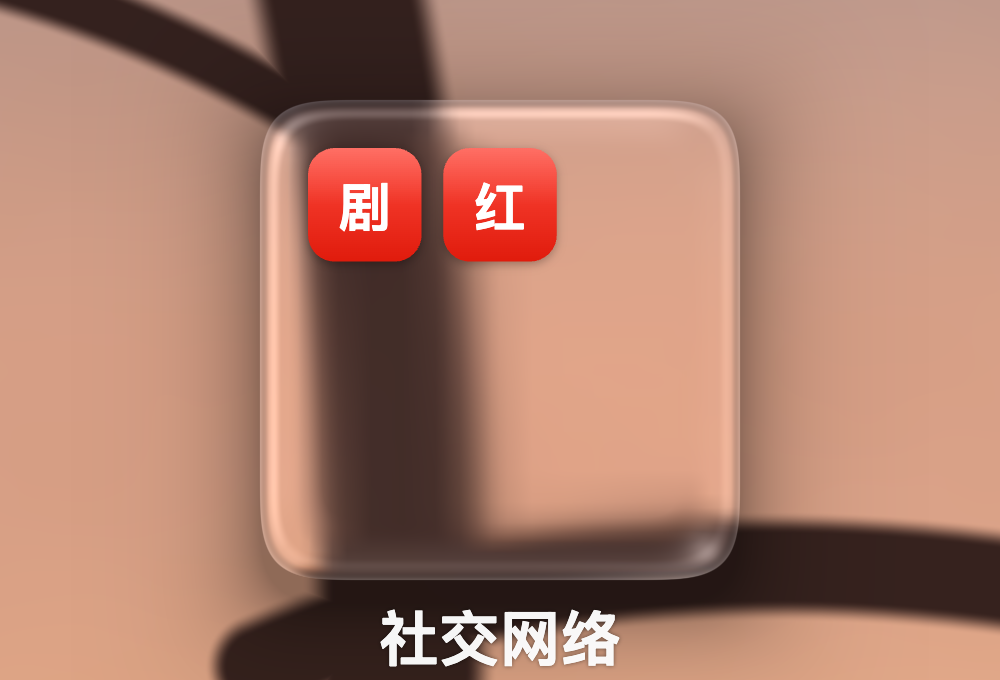
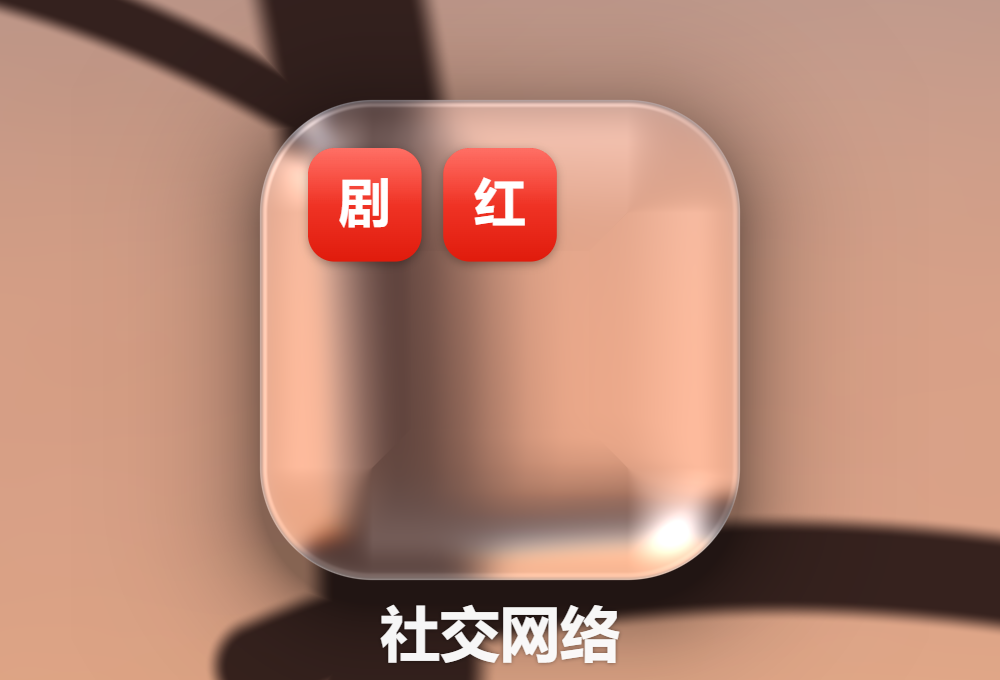
Fix backdrop-dependent brightness and the washed-out variable blur
Two elements with identical parameters rendered as different materials: the
"adaptive" white veil was driven by the average backdrop luminance behind each
element, so a folder sitting over a dark branch turned pale while its neighbour
over a bright background stayed clear. brightness was gated by the same factor,
so the slider did nothing at all over bright backdrops. Tint and brightness are
properties of the glass, not of what is behind it, so both are now constant
across every element (adaptive/uAvgLod removed, tintAmount carries the milky
layer that keeps dark wallpapers legible).

The blur parameters were raw mip levels sampled with a single textureLod tap.
On the top levels one texel is tens of pixels wide, so each tap averaged in a
large slab of the screen (colour collapsing toward the frame mean) and
reconstructed as a few big bilinear diamonds; with only 7 levels the rim slider
also saturated well below its maximum. They are now blur radii in CSS px: pick
the level whose own radius is about a third of the target, then spread 12
golden-angle taps over the remainder, which lands neighbouring taps one texel
apart and yields a real wide Gaussian that keeps its local colour.

Supporting changes: saturation now boosts the transmitted backdrop only (as
UIVisualEffectView does) to offset the desaturation any wide blur causes;
Fresnel uses the physical Schlick term, whose (1-cos)^5 falloff keeps the mirror
[…]

Changed region(s): [[0.248, 0.1235, 0.744, 0.8647], [0.372, 0.8956, 0.62, 0.9882]]

diff --git a/src/shaders.js b/src/shaders.js
@@ -182,11 +182,11 @@ void main() {
 // 4. refraction     : Snell (refract()) through that surface, screen-space
 //                     displacement = R.xy / -R.z * optical path length
 // 5. dispersion     : R/G/B refracted with slightly different IOR
-// 6. scattering     : variable blur via textureLod on the blurred mip chain,
-//                     strong on the plateau, weak on the rim
-// 7. reflection     : Fresnel-weighted environment + 2 specular lobes on the
+// 6. scattering     : variable-radius blur (multi-tap disc on the blurred mip
+//                     chain), strong on the plateau, weak on the rim
+// 7. reflection     : Schlick-Fresnel environment + 2 specular lobes on the
 //                     bevel -> the bright glass rim
-// 8. shading        : adaptive tint / saturation + soft contact shadow
+// 8. shading        : saturation boost / tint / soft contact shadow
 // ---------------------------------------------------------------------------
 export const FS_GLASS = `#version 300 es
 precision highp float;
@@ -203,15 +203,15 @@ uniform float uBevel;        // width of the refracting rim, px
 uniform float uHeight;       // glass height / optical thickness, px
 uniform float uIOR;
 uniform float uDispersion;
-uniform float uBlurPlateau;  // mip lod in the middle
-uniform float uBlurRim;      // mip lod at the rim
+uniform float uBlurPlateau;  // blur radius in the middle, px
+uniform float uBlurRim;      // blur radius at the rim, px
+uniform float uMips;         // number of levels in the blurred chain
 uniform float uSpecular;
 uniform float uSpecPower;
 uniform float uFresnel;
 uniform float uSat;
 uniform float uBright;
 uniform float uTintAmount;
-uniform float uAdaptive;
 uniform vec3  uTintColor;
 uniform float uShadow;
 uniform float uShadowSize;
@@ -223,7 +223,6 @@ uniform float uEdgeDark;
 uniform float uRefractScale;
 uniform float uMeniscus;     // 1 = concave meniscus rim, 0 = convex lens rim
 uniform int   uDebug;        // 0 final, 1 thickness, 2 normals, 3 displacement
-uniform float uAvgLod;       // mip level whose texel covers the whole element
 
 float sdSquircle(vec2 p, vec2 b, float r, float n) {
   vec2 q = abs(p) - b + r;
@@ -235,6 +234,37 @@ float sdSquircle(vec2 p, vec2 b, float r, float n) {
 vec3 sampleBg(vec2 px, float lod) {
   vec2 uv = clamp(px / uRes, vec2(0.001), vec2(0.999));
   return textureLod(uSrc, uv, lod).rgb;
+}
+
+// Variable-radius blur, radius in device px.
+//
+// A single textureLod() tap on the mip chain is not enough. The chain only
+// offers radii in powers of two, and on the top levels one texel is tens of
+// pixels wide, so a lone bilinear tap (a) averages in a huge slab of the
+// screen, which drags the colour toward the frame mean -> washed out, and
+// (b) reconstructs as a handful of big diamonds -> the "too few samples" mush.
+// Instead take the level whose own radius is about a third of what we want and
+// spread TAPS samples over the remainder on a golden-angle spiral. Neighbouring
+// taps then land roughly one texel apart at that level, which is exactly the
+// spacing at which the level's own filtering makes the disc continuous, so the
+// result is a real wide Gaussian that keeps its local colour.
+const int TAPS = 12;
+const float GOLDEN_ANGLE = 2.39996323;
+
+vec3 blurBg(vec2 px, float radius) {
+  if (radius < 1.0) return sampleBg(px, 0.0);
+  float lod = clamp(log2(radius) - 1.585, 0.0, uMips - 1.0);   // 2^lod ~ r/3
+  vec3 acc = vec3(0.0);
+  float wsum = 0.0;
+  for (int i = 0; i < TAPS; i++) {
+    float fi = float(i) + 0.5;
+    float r  = sqrt(fi / float(TAPS));       // equal-area spacing over the disc
+    float a  = fi * GOLDEN_ANGLE;
+    float w  = exp(-1.8 * r * r);
+    acc  += sampleBg(px + vec2(cos(a), sin(a)) * r * radius, lod) * w;
+    wsum += w;
+  }
+  return acc / wsum;
 }
 
 void main() {
@@ -279,15 +309,25 @@ void main() {
   }
 
   // ---- scattering: rim stays readable, plateau is frosted ----------------
-  float lod = mix(uBlurRim, uBlurPlateau, smoothstep(0.0, 0.85, t));
+  float radius = mix(uBlurRim, uBlurPlateau, smoothstep(0.0, 0.85, t));
 
   vec3 col;
-  col.r = sampleBg(px + dR, lod).r;
-  col.g = sampleBg(px + dG, lod).g;
-  col.b = sampleBg(px + dB, lod).b;
+  col.r = blurBg(px + dR, radius).r;
+  col.g = blurBg(px + dG, radius).g;
+  col.b = blurBg(px + dB, radius).b;
+
+  // Saturation is boosted on the TRANSMITTED backdrop only (this is what
+  // UIVisualEffectView's saturationDeltaFactor does). Any wide blur averages
+  // colours toward grey; without this the frosted panel reads pale even though
+  // the wallpaper behind it is saturated. Doing it before the reflections keeps
+  // the specular/Fresnel highlights neutral.
+  col = mix(vec3(dot(col, vec3(0.2126, 0.7152, 0.0722))), col, uSat);
 
   // ---- reflection: environment + two specular lobes on the bevel ---------
-  float fres = pow(1.0 - n.z, 3.0);
+  // Schlick: F0 for glass is ~4%, and the (1-cos)^5 falloff keeps the mirror
+  // term confined to the steepest part of the bevel. A softer exponent smears
+  // a grey wash across the whole rim and bleaches the refracted image there.
+  float fres = 0.04 + 0.96 * pow(1.0 - n.z, 5.0);
   vec2 nn = normalize(n.xy + 1e-6);
   vec3 env = mix(vec3(0.52, 0.57, 0.66), vec3(1.0), 0.30 + 0.70 * clamp(0.5 + 0.5 * nn.y, 0.0, 1.0));
   col = mix(col, env, clamp(fres * uFresnel, 0.0, 1.0));
@@ -310,19 +350,15 @@ void main() {
   float lit = 0.30 + 0.70 * max(dot(g, normalize(uLightDir)), 0.0);
   col += uEdgeLine * line * lit;
 
-  // ---- adaptive tint -----------------------------------------------------
-  float lum = dot(col, vec3(0.2126, 0.7152, 0.0722));
-  col = mix(vec3(lum), col, uSat);
+  // ---- tint --------------------------------------------------------------
+  // Tint and brightness are properties of the GLASS, so they must not depend on
+  // what happens to be behind the element. An earlier version drove a white
+  // veil (and gated brightness) off the average backdrop luminance, which made
+  // one folder go pale as soon as something dark passed behind it while an
+  // identically configured neighbour stayed clear -- same parameters, two
+  // different materials. Every element now gets exactly the same treatment.
   col = mix(col, uTintColor, uTintAmount);
-  // Adaptive: the veil follows the AVERAGE luminance of the backdrop behind the
-  // whole element (one low-res tap), not the per-pixel luminance. That is what
-  // keeps dark details dark while still lightening the panel over dark
-  // wallpapers -- per-pixel adaptation would grey out the content.
-  float bgLum = dot(textureLod(uSrc, uCenter / uRes, uAvgLod).rgb,
-                    vec3(0.2126, 0.7152, 0.0722));
-  float dark = smoothstep(0.45, 0.05, bgLum);
-  col = mix(col, vec3(1.0), uAdaptive * dark);
-  col += uBright * dark;
+  col += uBright;
 
   // ---- soft contact shadow ----------------------------------------------
   float ds = sdSquircle(p + vec2(0.0, uShadowOffset), uHalf, uRadius, uSquircle);

diff --git a/src/material.js b/src/material.js
@@ -9,15 +9,14 @@ export const DEFAULT_MATERIAL = {
   refractScale: 3.0,   // artistic gain on the displacement
   meniscus: 1.0,       // 1 = concave (liquid) rim -> surroundings squeeze into
                        // the rim (Apple);  0 = convex lens rim (magnifier)
-  blurPlateau: 2.25,   // mip lod in the middle (frosted)
-  blurRim: 5.4,        // mip lod on the rim
+  blurPlateau: 20,     // blur radius in the middle, CSS px (frosted)
+  blurRim: 7,          // blur radius on the rim, CSS px (stays readable)
   specular: 0.89,
   specPower: 11.5,
-  fresnel: 0.35,
-  saturation: 1.0,
+  fresnel: 0.9,        // multiplier on the Schlick term (1 = physical)
+  saturation: 1.35,    // boost on the transmitted backdrop, like iOS materials
   brightness: 0.0,
-  tintAmount: 0.0,
-  adaptive: 0.28,      // white veil added over dark backdrops (legibility)
+  tintAmount: 0.08,    // constant milky layer -- same for every element
   tintColor: [1.0, 1.0, 1.0],
   shadow: 0.38,
   shadowSize: 9,
@@ -35,14 +34,14 @@ export const PRESETS = {
   regular: {},
   // "Clear" variant: almost no frost, refraction and specular do all the work
   clear: {
-    blurPlateau: 1.1, blurRim: 0.4, height: 20, bevel: 15, refractScale: 1.5,
-    specular: 0.36, fresnel: 0.40, tintAmount: 0.02, brightness: 0.02,
+    blurPlateau: 3, blurRim: 1, height: 20, bevel: 15, refractScale: 1.5,
+    specular: 0.36, fresnel: 1.0, tintAmount: 0.02, brightness: 0.02,
     saturation: 1.18,
   },
   // exaggerated, for teaching the physics
   lens: {
     bevel: 26, height: 34, ior: 1.62, dispersion: 0.09, refractScale: 1.8,
-    blurPlateau: 0.6, blurRim: 0.0, specular: 0.42, fresnel: 0.5,
+    blurPlateau: 2, blurRim: 0, specular: 0.42, fresnel: 1.2,
   },
 };
 
@@ -59,15 +58,14 @@ export const SLIDERS = [
   ['dispersion', 0, 0.15, 0.005],
   ['refractScale', 0, 3, 0.05],
   ['meniscus', 0, 1, 0.05],
-  ['blurPlateau', 0, 6, 0.05],
-  ['blurRim', 0, 6, 0.05],
+  ['blurPlateau', 0, 48, 0.5],
+  ['blurRim', 0, 48, 0.5],
   ['specular', 0, 1, 0.01],
   ['specPower', 1, 40, 0.5],
-  ['fresnel', 0, 1, 0.01],
+  ['fresnel', 0, 2, 0.01],
   ['saturation', 0, 2, 0.02],
   ['brightness', -0.2, 0.3, 0.01],
   ['tintAmount', 0, 0.4, 0.01],
-  ['adaptive', 0, 0.5, 0.01],
   ['shadow', 0, 1, 0.01],
   ['shadowSize', 1, 30, 0.5],
   ['shadowOffset', 0, 20, 0.5],

diff --git a/src/renderer.js b/src/renderer.js
@@ -168,15 +168,15 @@ export class GlassRenderer {
     gl.uniform1f(loc.uHeight, m.height * dpr);
     gl.uniform1f(loc.uIOR, m.ior);
     gl.uniform1f(loc.uDispersion, m.dispersion);
-    gl.uniform1f(loc.uBlurPlateau, m.blurPlateau + Math.log2(dpr));
-    gl.uniform1f(loc.uBlurRim, m.blurRim + Math.log2(dpr));
+    gl.uniform1f(loc.uBlurPlateau, m.blurPlateau * dpr);
+    gl.uniform1f(loc.uBlurRim, m.blurRim * dpr);
+    gl.uniform1f(loc.uMips, MIPS);
     gl.uniform1f(loc.uSpecular, m.specular);
     gl.uniform1f(loc.uSpecPower, m.specPower);
     gl.uniform1f(loc.uFresnel, m.fresnel);
     gl.uniform1f(loc.uSat, m.saturation);
     gl.uniform1f(loc.uBright, m.brightness);
     gl.uniform1f(loc.uTintAmount, m.tintAmount);
-    gl.uniform1f(loc.uAdaptive, m.adaptive);
     gl.uniform3f(loc.uTintColor, ...m.tintColor);
     gl.uniform1f(loc.uShadow, m.shadow);
     gl.uniform1f(loc.uShadowSize, m.shadowSize * dpr);
@@ -188,8 +188,6 @@ export class GlassRenderer {
     gl.uniform1f(loc.uRefractScale, m.refractScale);
     gl.uniform1f(loc.uMeniscus, m.meniscus);
     gl.uniform1i(loc.uDebug, m.debug | 0);
-    gl.uniform1f(loc.uAvgLod,
-      Math.min(MIPS - 1, Math.max(0, Math.log2(Math.max(hw, hh) * 2))));
 
     gl.drawArrays(gl.TRIANGLE_STRIP, 0, 4);
     gl.disable(gl.BLEND);

diff --git a/src/app.js b/src/app.js
@@ -233,11 +233,10 @@ window.__lg = {
     state.folders = [f];
     state.wallZoom = zoom;
     const m = state.material;
-    for (const k of ['radius', 'bevel', 'height', 'shadowSize', 'shadowOffset', 'edgeWidth']) {
+    for (const k of ['radius', 'bevel', 'height', 'shadowSize', 'shadowOffset',
+                     'edgeWidth', 'blurPlateau', 'blurRim']) {
       m[k] *= zoom;
     }
-    m.blurPlateau += Math.log2(zoom);
-    m.blurRim += Math.log2(zoom);
     syncSliders();
     render();
   },

diff --git a/README.md b/README.md
@@ -26,10 +26,10 @@ Liquid Glass 不是"毛玻璃 + 白色半透明层"。它是一块**有厚度、
 | 3 | 法线 | `n = normalize(vec3(s · H/bevel · dh/dt · ∇d, 1))` |
 | 4 | 折射 | Snell：`R = refract((0,0,-1), n, 1/ior)`，屏幕空间位移 `Δ = R.xy / -R.z · 光程` |
 | 5 | 色散 | R/G/B 用 `ior ∓ dispersion` 各算一次 → 边缘彩边 |
-| 6 | 散射 | 背景模糊金字塔上 `textureLod(lod(t))`：平台重、边缘轻（边缘要保留可读的弯折） |
-| 7 | 反射 | Fresnel `(1-n.z)³` 混环境色 + 两个高光波瓣（主光左上、补光右下）→ 亮边 |
+| 6 | 散射 | 背景模糊金字塔上的**变半径模糊**（12 tap 黄金角圆盘）：平台重、边缘轻（边缘要保留可读的弯折） |
+| 7 | 反射 | Schlick Fresnel `0.04 + 0.96(1-n.z)⁵` 混环境色 + 两个高光波瓣（主光左上、补光右下）→ 亮边 |
 | 8 | 边缘 | 掠射角变暗的暗轮廓线 + 内侧亮线 |
-| 9 | 自适应 | 按元件背后**平均**亮度（一次低分辨率 mip 采样）加白纱 |
+| 9 | 着色 | 透射光饱和度提升 + **恒定**白纱 `tintAmount` |
 | 10 | 阴影 | SDF 外侧指数衰减的接触阴影，略向下偏移 |
 
 ### 关键结论：边缘是"液面"而不是凸透镜
@@ -45,12 +45,32 @@ Liquid Glass 不是"毛玻璃 + 白色半透明层"。它是一块**有厚度、
 **液体在容器壁上被表面张力拉起来的凹液面**——这也正是 "Liquid" 的来处。
 面板里把 `meniscus` 拉到 0 就能看到两者区别（`shots/` 里也留了对比图）。
 
-### 第二个易错点：自适应要看"平均亮度"
+### 第二个易错点：白纱/亮度不能跟着背景走
 
-早期版本按每像素亮度加白纱，结果背后的深色树枝被洗成灰色。Apple 的自适应是
-**整块元件级**的：只有整体背景偏暗时才整体提亮，暗部细节仍然保持暗。
-现在用 `textureLod(uSrc, center, avgLod)` 一次采样得到平均亮度，
-深蓝壁纸上面板变奶白，黄昏壁纸上树枝依旧是棕黑色。
+曾经试过"自适应"：按元件背后的**平均**亮度决定加多少白纱
+（`dark = smoothstep(0.45, 0.05, bgLum)`），并且把 `brightness` 也乘在这个系数上。
+结果是同一套参数下，**背后压到黑色树枝的那个文件夹会莫名发白**，
+旁边背景亮的那个却完全不变——看上去像两种材质；而且 `brightness` 滑杆
+在亮背景上等于失效，怎么调都"对不上"。
+
+白纱和亮度是**玻璃自己的属性**，不该知道背后是什么。现在改成恒定的
+`tintAmount` / `brightness`，所有元件一视同仁；深色壁纸上的可读性靠这层
+恒定奶白 + 边缘反射解决。
+
+### 第三个易错点：模糊不能只 `textureLod` 一发
+
+`blurPlateau` / `blurRim` 原来是**mip 层号**。层号只能取到 2 的幂，而且顶层一个
+texel 就有几十像素宽，于是单次 `textureLod`：
+
+* 一次采样把大半屏幕平均进来 → 颜色被拉向画面均值，**发灰发淡**；
+* 双线性重建只有 2×2 个巨大 texel → 几块菱形色斑，**"采样太少"的糊感**；
+* 7 级链在 dpr=2 下 lod 5.4 就已经撞顶，滑杆再往上推毫无变化。
+
+现在两个参数是**CSS px 的模糊半径**。着色器先取"自身半径约为目标 1/3"的那一级
+（`lod = log2(r) - 1.585`），再用 12 个黄金角螺旋 tap 铺满剩下的宽度：相邻 tap
+差不多正好一个 texel，该级自身的滤波把圆盘补成连续的，于是得到真正的宽高斯，
+拉到多大都平滑、并且保住局部颜色。透射光另外做一次饱和度提升
+（`saturation`，对应 iOS `saturationDeltaFactor`），补偿模糊本身的去饱和。
 
 ---
 
@@ -70,8 +90,8 @@ tools/shot.mjs         Playwright 截图（复刻验证用）
 背景直出屏幕 → 每个文件夹画一个带阴影 padding 的四边形（premultiplied 混合）→
 2D canvas 画图标/文字。
 
-模糊半径、斜面宽度、玻璃厚度都是 **CSS px**，渲染时乘 dpr，
-`blur lod` 加 `log2(dpr)`，所以在任何缩放/DPR 下是同一块物理玻璃。
+模糊半径、斜面宽度、玻璃厚度都是 **CSS px**，渲染时统一乘 dpr，
+所以在任何缩放/DPR 下是同一块物理玻璃。
 
 ---
 
@@ -84,7 +104,7 @@ node tools/shot.mjs shots/finalz.png --scene 0 --size 500x340 --no-panel --focus
 node tools/shot.mjs shots/dbg3.png  --scene 0 --no-panel --focus 0,2.4 --set debug=3
 ```
 
-`--focus i,zoom` 是**真放大**：文件夹尺寸、圆角、斜面、厚度、模糊 lod、
+`--focus i,zoom` 是**真放大**：文件夹尺寸、圆角、斜面、厚度、模糊半径、
 边线宽度、壁纸都按同一倍率放大，因此近景截图能直接和参考大图比例对照。
 `--set k=v,...` 可临时改任意参数，用来做参数扫描。
 
@@ -94,6 +114,6 @@ node tools/shot.mjs shots/dbg3.png  --scene 0 --no-panel --focus 0,2.4 --set deb
 2. 边缘没有透镜感 → 发现折射符号反了，引入 meniscus 曲率。
 3. 内部糊成一片粉色 → 降低平台 lod，并把树枝加粗到参考照片的比例。
 4. 边界不清 → 加掠射角暗轮廓 + 内侧亮线（`edgeDark` / `edgeLine` / `edgeWidth`）。
-5. 深色壁纸上玻璃不够亮 → 加 `adaptive` 白纱。
-6. 白纱把暗部洗灰 → 改成按元件平均亮度自适应。
-```
+5. 深色壁纸上玻璃不够亮 → 加白纱。
+6. 白纱按背景亮度自适应 → 元件之间亮度不一致，改回恒定 `tintAmount`。
+7. 模糊发淡发糊、`blurRim` 拉满没反应 → mip 层号改成 px 半径 + 多 tap 圆盘采样。
